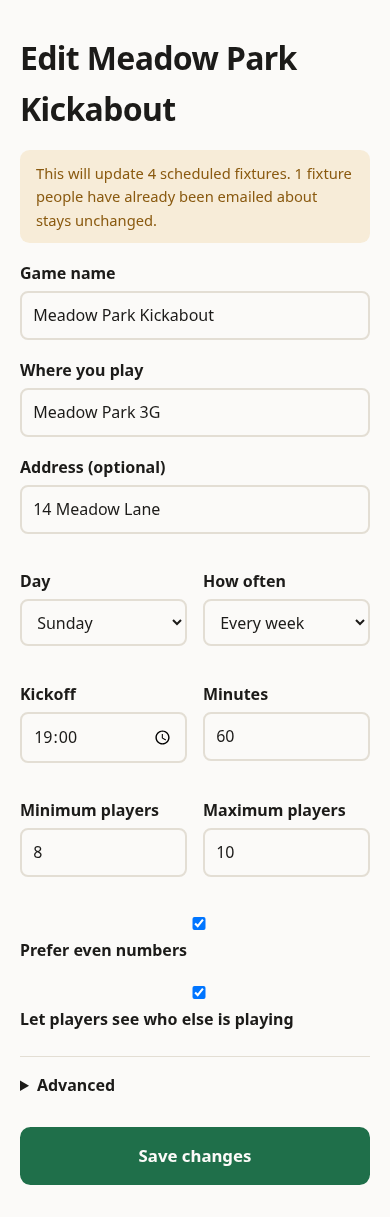
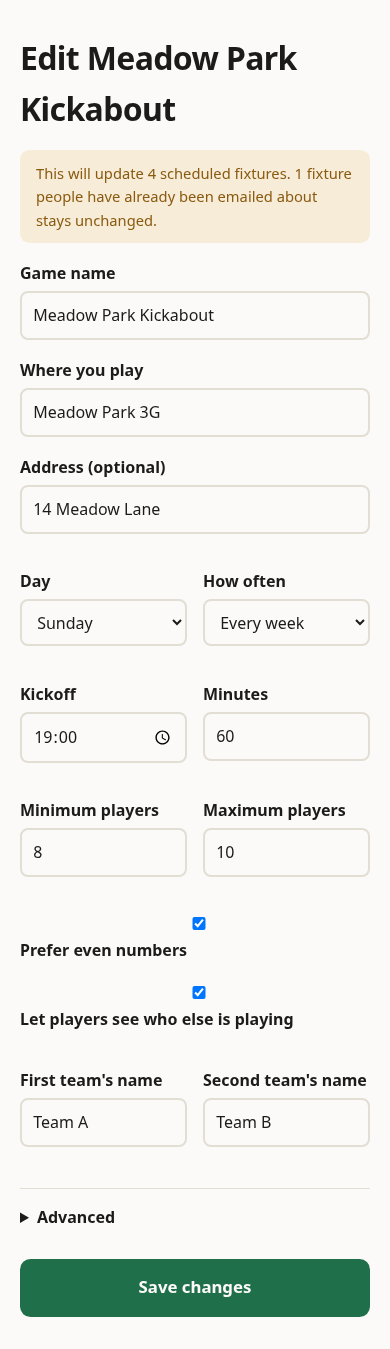
docs: cover team picking in the guide and master spec (BR-35)
The guide gets an organiser section on picking sides — who appears, that
saving is private and publishing is what tells people, that a partial pick
saves but cannot be published, and that a late drop-out prompts rather than
rearranges — plus what the N-9 email says and where a player finds their own
side.

One new screenshot, `team-picker`, scoped to the picker on the owner fixture
page. The capture is re-run in the same commit because the team-name fields
and the Teams section changed three pages the guide already photographs, which
is the procedural rule the guide's spec states in place of a check nothing can
automate.

Master spec: BR-35 after BR-34, N-9 in the notification catalogue and the
dedupe-key table, and §308's team-picking entry rewritten to record what
shipped against what it anticipated — ratings and algorithmic balancing stay
deliberately out.

Claude-Session: https://claude.ai/code/session_01Mj62Ur26iU2Mrm7FtZg8zB

diff --git a/test/browser/guide-shots.ts b/test/browser/guide-shots.ts
@@ -250,6 +250,27 @@ export const SHOTS: Shot[] = [
     element: 'ul.squad li:has-text("Jono Fielding")',
   },
   {
+    id: "team-picker",
+    chapter: "05-running-your-squad",
+    title: "Picking the teams",
+    route: "/g/:id/f/:fixtureId",
+    shows:
+      "The team picker below the squad on the same fixture page: the two sides " +
+      "named, and every player who is in with three choices beside their name.",
+    // The same fixture page as `owner-fixture` above, scoped to the picker
+    // itself — an unscoped shot here would be a second photograph of a page
+    // this chapter already shows, for the same reason `invite`/`invite-qr`
+    // are each scoped to their own part of `/g/:id`.
+    //
+    // Nobody in this world has been given a side, which is deliberate: it is
+    // the state an organiser actually opens the picker in, and it keeps this
+    // shot from depending on a pick that would have to be driven — and kept
+    // in step with the prose — on every regeneration.
+    path: (w) => `/g/${w.demoGameId}/f/${w.demoFixtureId}`,
+    persona: "organiser",
+    element: "#team-picker",
+  },
+  {
     id: "cancel",
     chapter: "06-calling-a-fixture-off",
     title: "Calling it off",

diff --git a/docs/superpowers/specs/2026-08-10-make-the-team-design.md b/docs/superpowers/specs/2026-08-10-make-the-team-design.md
@@ -280,6 +280,7 @@ Numbered so tests can reference them.
 - **BR-27** Every Owner override is recorded in `audit_log` with actor, timestamp and previous value, and is visibly attributed in the UI ("marked in by Edward").
 - **BR-33** A Game carries a squad-visibility setting, default on. When it is off, players see a fixture's counts and their own response but not other players' names or responses. Owners are unaffected.
 - **BR-34** A player may erase their own data from a signed-in session of their own. **Satisfied as of M7b** ("delete my data", the plan at `.superpowers/sdd/2026-08-15-delete-my-data/`). `GET /app/delete` states what erasure does; `POST /app/delete` schedules it 48 hours out and does nothing else, and `POST /app/delete/cancel` clears it. The request is cancellable for the whole of that window — from the page itself and from a banner on the dashboard — and nothing is undone by cancelling, because nothing was done: the wait exists so that a mis-tap costs nothing. When the window closes the hourly sweep leaves every squad (promoting and notifying whoever was waitlisted into each freed slot), hard-deletes the authentication rows, and **anonymises the `players` row in place** rather than deleting it, so a past fixture still counts the people who were there without naming this one. It is refused while the player is the last active organiser of any game — checked when the page renders, again when the request is made, and once more before the sweep acts, because a co-organiser can leave in between. A refusal at that last check leaves the erasure pending and visible rather than silent: it writes one `player.erasure_blocked` audit row per transition into the blocked state, names the blocking game on the delete page *and* on the dashboard banner with a link to hand over, and names the stuck player in the sweep's log. The page never goes on promising a date that has passed — once the deadline is behind it, both surfaces say it is held up and why. Erasure is not atomic (D1 has no interactive transaction spanning Durable Object calls), so a run that stops part-way is recorded in `players.erasure_started_at`, and from that point cancelling is refused with an explanation: the squads left and the waitlist promotions already emailed cannot be restored, and clearing the request would strand the account half-erased with nothing left to finish it. Every renderer an erased player can reach branches on `players.erased_at` and shows "a former player" rather than the stored placeholder, in a squad list and in BR-27's "marked in by" line alike — `listSquad`'s renderers and the N-4 attention email do not branch, and do not need to: erasure deactivates every membership before anonymising, so neither one is ever reached by an erased player's row. Neither the request nor the cancellation can be performed by anyone else: both routes act on the session's own player and take no player id from a path, a query string or a form body, so there is no control anywhere that names somebody else.
+- **BR-35** An Owner may assign each `in` player of an `open` fixture to one of two sides. **Satisfied as of M9** ("team picking", the spec at `docs/superpowers/specs/2026-08-15-team-picking-design.md`). The sides are named per **Game** — `games.team_a_name` / `team_b_name`, defaulting to `Team A` and `Team B`, edited on the game form, blank falling back to the default — and an assignment is a nullable `responses.team` (`'a'`/`'b'`), which is already the (fixture, player) pair the assignment hangs off and so covers guests and dies with the response row. Only `in` players are offered a side: a waitlisted player has no place in the fixture yet, and the save route ignores any assignment naming one. **Saving and publishing are separate acts.** `POST /g/:id/f/:fixtureId/teams` writes the sides, clears `fixtures.teams_published_at` unconditionally, and tells nobody — a partial pick saves, because an Owner interrupted halfway must keep their work. `POST /g/:id/f/:fixtureId/teams/publish` sets `teams_published_at` and sends N-9; it is refused, as the fixture page at 422 with the unassigned **named**, while anyone `in` has no side, and refused when nobody is `in` at all. Both routes are refused unless the fixture is still taking changes (the `takingChanges` predicate the row controls and the guest form already use), and both write `audit_log` rows (`fixture.teams_saved`, `fixture.teams_published`) per BR-27. The picker is a form of one radio group per player — three choices, the third being "not picked yet" — so it works with scripting off; the drag-and-drop enhancement only sets those same radios and never becomes required. **A player always sees their own side**, on `/r/:token`, on the player's game page and in the email, read from their own response row and never through `squadForViewer`; the other side's names follow BR-33, and a Game that hides its squad renders no line-ups rather than empty ones. **Nothing rebalances or re-sends itself.** `responses.team` is never cleared when a player stops being `in`, so the orphaned value is the signal that the published sides no longer match the squad: a late drop-out or a waitlist promotion moves nobody, sends nothing, and surfaces to the Owner as teams needing another look, which only a further publish acts on. Per-player ratings and algorithmic balancing remain future work (§308).
 
 ## 1.11 Notification catalogue
 
@@ -295,6 +296,13 @@ The complete set for v1. Do not add others without a decision.
 | N-6 | Welcome / squad joined | The new member | 1 per membership | Email |
 | N-7 | Removed from a squad | The removed member | 1 per spell in the squad | Email |
 | N-8 | Erasure scheduled | The requesting player | 1 per request | Email |
+| N-9 | Teams published | Players who are `in`, never guests (BR-32) | 1 per player per publish | Email |
+
+**Amended, M9.** N-9 is added by BR-35 — the decision this table asks for
+before anything joins it. Nothing but the publish button sends it: no sweep
+evaluates it and no roster change triggers it, so an Owner who wants the squad
+told again after a late drop-out publishes again, and each publish is a
+separate send (see the dedupe key in §2.8).
 
 **Amended, M7b.** N-7 shipped in M7a and was described in BR-22 but never
 added to this table, which calls itself the complete set — so the table said
@@ -303,9 +311,11 @@ alongside N-8.
 
 ## 1.12 Future scope
 
-Design the data model to accommodate these; build none of them now.
+Design the data model to accommodate these; build none of them now. The first
+of them has since been built — team picking, in M9 — and its entry below now
+records what shipped rather than what was imagined. The rest stand.
 
-- **Team picking** — split accepted players into two sides, manually via drag-and-drop, later algorithmically. Implies a `team` concept attached to a fixture, and eventually a per-player rating. This is where the `uneven` flag pays off.
+- **Team picking** — **built in M9** (BR-35; `docs/superpowers/specs/2026-08-15-team-picking-design.md`). An Owner splits an `open` fixture's `in` players across two Game-named sides, saves privately, and publishes to send N-9. What shipped, against what this entry anticipated: the `team` concept landed as a nullable `responses.team` rather than anything attached to the fixture, since `responses` is already the (fixture, player) pair; the manual pick is a radio group per player that works with scripting off, with drag-and-drop as an enhancement over those same radios rather than the mechanism; and the `uneven` flag does pay off, reused to say when the two sides are lopsided in a game that prefers even numbers. **Deliberately left:** per-player ratings and algorithmic balancing — "later algorithmically" stays later, and a rating system is its own product decision — along with more than two sides, per-fixture names, and any form of auto-rebalancing or auto-publishing.
 - **Score recording** — after a fixture is `played`, any player can record the result. Implies a `result` on the fixture.
 - **WhatsApp and SMS** — additional notification channels. Implies a per-player channel preference (present from day one) and a delivery abstraction (§2.7). Both carry per-message cost and, for WhatsApp, template pre-approval. A `phone` column is added then, not now.
 - **Community funding** — public cost transparency page and a contribution mechanism.
@@ -526,6 +536,7 @@ Notes:
   | N-6 welcome | `n6:<membership_id>:<joined_at>` | Once per membership; rejoining sends again |
   | N-7 removal | `n7:<membership_id>:<left_at>` | Once per spell in the squad; a rejoin and a second removal sends again |
   | N-8 erasure scheduled | `n8:<player_id>:<erases_at>` | Once per request; a re-request moves the deadline, so its key differs and it is told again |
+  | N-9 teams published | `n9:<fixture_id>:<player_id>:<published_at>` | Once per publish per player; re-publishing after a late change mints a new key and genuinely tells everyone again |
 
   **Amended, M6a.** The table above originally gave N-6's key as
   `n6:<membership_id>` alone, which contradicts its own "rejoining sends
@@ -645,8 +656,9 @@ Each milestone is independently deployable and demonstrable.
 | **M6** | Owner UI — create/edit game, manage squad, overrides, guests, invite link and QR | J1 and J6 work end to end with no seed data |
 | **M7** | Polish — empty states, error pages, accessibility pass, unsubscribe and leave-game flows, delete-my-data, `/privacy` stub | Usable by a stranger with no explanation, and a player can remove themselves and their data |
 | **M8** | Squad visibility — an owner-controlled setting, and a player's view of a game | A player can see who else is playing, and an owner can turn that off |
+| **M9** | Team picking (BR-35) — two named sides per game, a picker on the owner's fixture page, and N-9 | An owner can split an open fixture's players into two sides with JavaScript off, publish them, and everyone playing is emailed their side |
 
-M1–M4 are the product. M5–M7 make it shareable. Team picking, score recording, and the funding page come after, as separate specs.
+M1–M4 are the product. M5–M7 make it shareable. Score recording and the funding page come after, as separate specs — as team picking did, delivered as M9.
 
 **Status:** M0 and M1 delivered by `docs/superpowers/plans/2026-08-10-m0-m1-foundation.md`. M2 and M3 delivered by `docs/superpowers/plans/2026-08-10-m2-m3-responses-and-email.md`. M4 delivered by `docs/superpowers/plans/2026-08-11-m4-waitlist-cancellation-attention.md`. M5 delivered by `docs/superpowers/plans/2026-08-11-m5-auth-and-dashboard.md`.
 

diff --git a/docs/guide/05-running-your-squad.md b/docs/guide/05-running-your-squad.md
@@ -124,6 +124,69 @@ fixture page sees the same thing, worded for them, so nobody wonders why the
 squad looks bigger than the game allows. It's a call you made on purpose, not
 a mistake the app happened to let through.
 
+## Picking the teams
+
+Under the squad on the same fixture page is **Teams**, where you split the
+people who are playing into two sides.
+
+![The team picker, with two empty sides above every player who is in](images/team-picker.png)
+
+Only players marked **In** are offered a side. Anybody on the waitlist isn't:
+they haven't got a place yet, and putting them on a side would suggest they
+had. A guest counts as playing like anyone else — Jono Fielding is in this
+list.
+
+Every name starts on **Not picked yet**, and has the two sides beside it. Work
+down the list, tap a side for each person, and press **Save teams**. If you'd
+rather drag, you can: the two sides are the columns above the list, and on a
+phone or computer that allows it you can drag a name straight into one.
+Dragging ticks the same button you would have tapped, so it's the same pick
+either way, and on a device that won't drag, tapping is all there ever was.
+
+The sides are called **Team A** and **Team B** until you say otherwise.
+**First team's name** and **Second team's name**, on the **Edit this game**
+form a little below the setting above, rename them for every week the game
+plays — Bibs and Skins, Reds and Blues, whatever your lot call them.
+
+## Saving, and then telling people
+
+Saving and telling the squad are two separate things, and the page says so:
+**Only players who are in can be given a side. Nobody is told anything until
+you publish.**
+
+So a half-finished pick is fine. Save six of twelve, go and cook dinner, come
+back and finish it. Nobody has seen anything, and nothing has been sent.
+
+**Publish teams**, which appears once you've saved a pick, is what tells
+everyone. Every player who is in and has an email address gets a message
+saying which side they're on. Guests don't — they never get email from us, so
+they're the one group you still tell yourself.
+
+What you can't do is publish half a pick. If anybody who's in still has no
+side, the page comes back and names them — **Everyone who's in needs a side
+before you can publish. Still to pick: Freya Lindqvist.** — so you can finish
+those few rather than hunt down which they were.
+
+If the sides end up uneven and your game prefers even numbers, the picker
+mentions it and leaves it there: **The sides are uneven at the moment. That's
+fine if you meant it.** It's a note, not a refusal.
+
+## When the squad changes afterwards
+
+Somebody always drops out. When they do, nobody is moved between sides for
+you, and nothing is sent to anybody a second time — the app doesn't decide
+whether eleven people need another email. It tells you instead, above the
+button: **The teams have changed since they were last sent out. Send them
+again?**, and the button now reads **Publish again**.
+
+The same happens the other way round. If somebody comes off the waitlist into
+the free place, they turn up in the picker with no side and the same note
+appears. You can't publish again until they have one, which is the point:
+they're the person most in need of being told.
+
+Once the fixture has been played or called off, the teams stay on the page as
+a record of who was on which side. The controls go; the pick doesn't.
+
 ## Replacing the invite link
 
 If the link ends up somewhere you'd rather it hadn't — a public group, a work

diff --git a/docs/guide/03-answering-a-reminder.md b/docs/guide/03-answering-a-reminder.md
@@ -67,4 +67,22 @@ players marked **In**, then Mika Toivonen first on the waitlist and Grace
 Abara second, in the order they answered. Anyone who has not answered yet —
 Ade Sowande here — shows as **Not yet responded**.
 
+## When the teams go up
+
+Some organisers pick the sides before the night. If yours does, one more email
+arrives, with the game's name and **teams are up** in the subject line. It
+opens with the single thing you need — **You're on Team A.**, or whatever your
+organiser has called the sides — and, if your game shows the squad, both
+line-ups underneath it.
+
+You don't have to keep that email. Go back to the same page you answered on
+and your side is there too, above the squad, worded exactly the same way. It
+is always your own side, even in a game with the names turned off: that page
+still tells you which side you're on, just not who is on it with you.
+
+Nothing about the teams changes how you answer. If you can't make it after all,
+tap **Can't make it** as usual. Nobody is shuffled between sides automatically
+— your organiser is told the teams need another look, and it's up to them
+whether to send them round again.
+
 Next: [when someone drops out](04-when-someone-drops-out.md).

diff --git a/docs/guide/README.md b/docs/guide/README.md
@@ -23,11 +23,12 @@ This guide walks through it in the order you'll meet it.
    and what a player sees when they follow it.
 3. [Answering a reminder](03-answering-a-reminder.md) — what a player does with
    the email, from the tap in the inbox to the answer being saved, including
-   the waitlist.
+   the waitlist and finding out which side you're on.
 4. [When someone drops out](04-when-someone-drops-out.md) — changing your
    answer, and how the waitlist moves.
 5. [Running your squad](05-running-your-squad.md) — organisers, removing
-   someone, changing the details, and replacing the invite link.
+   someone, changing the details, picking the teams, and replacing the invite
+   link.
 6. [Calling a fixture off](06-calling-a-fixture-off.md) — cancelling one week
    and telling everyone why.
 7. [Your own fixtures](07-your-own-fixtures.md) — the signed-in view of what's

diff --git a/docs/guide/07-your-own-fixtures.md b/docs/guide/07-your-own-fixtures.md
@@ -18,7 +18,7 @@ in** is your own answer.
 
 The game's name at the top of the card is a link. Tap it to see that game on
 its own — where it's played, who else is playing if the organiser shows that,
-and the dates coming up.
+which side you're on once the teams have gone up, and the dates coming up.
 
 **I'm in** and **Can't make it** sit on the card, and you can use them whether
 or not you've answered already. There's no email in the way here, so it's one
